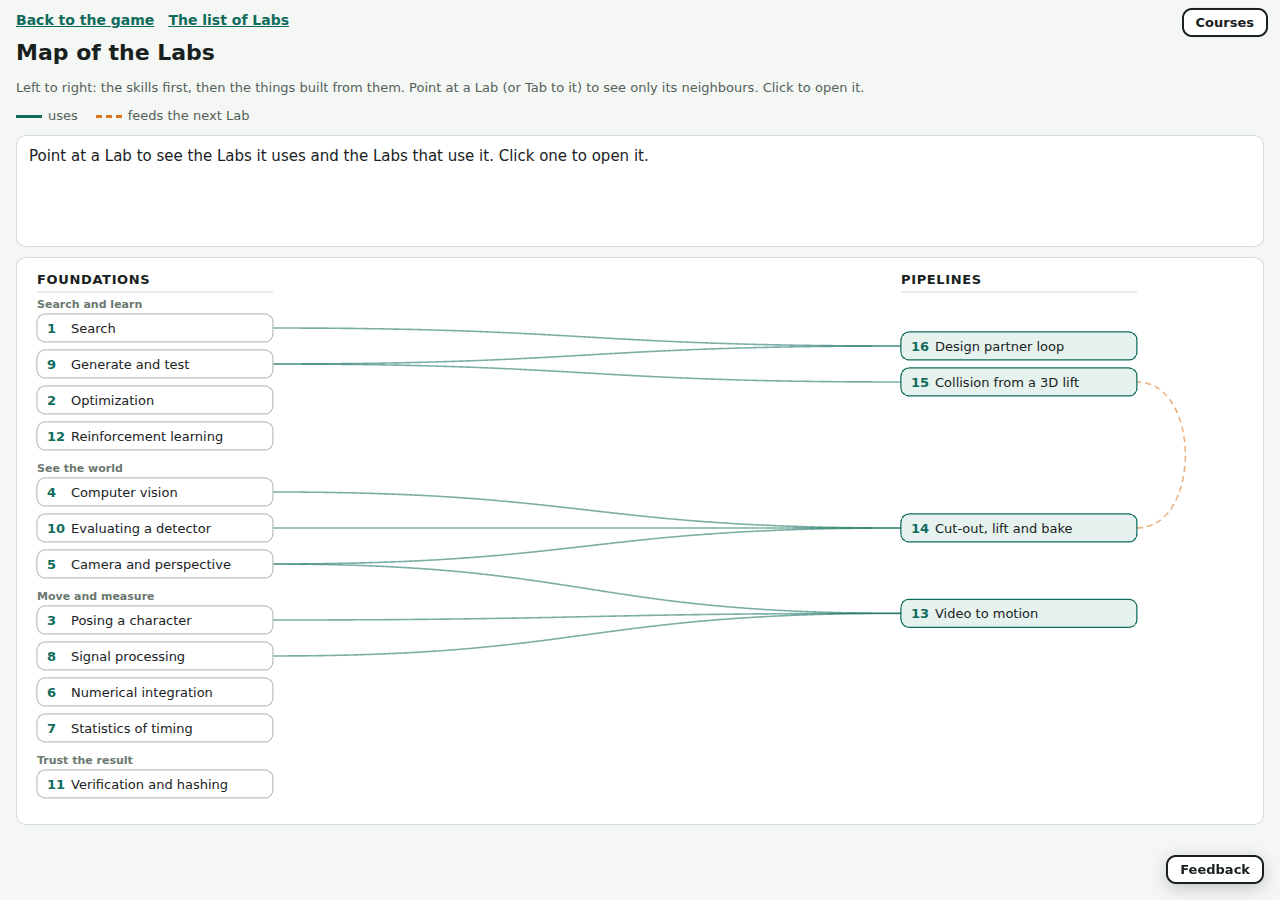
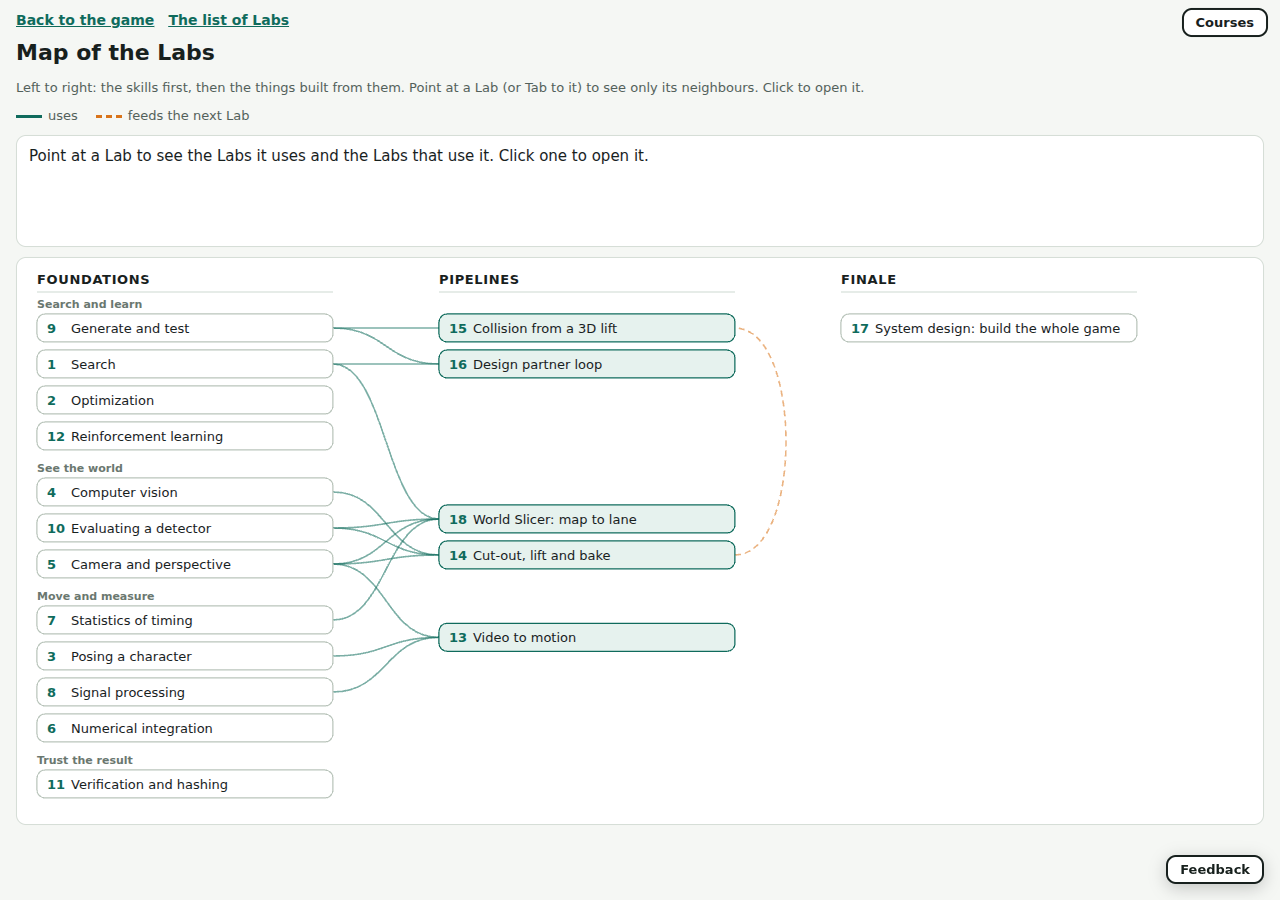
Labs map: wider boxes for long Lab names, three columns with the finale, new evidence screenshots - Part of CC-133

diff --git a/tests/labs-map.test.ts b/tests/labs-map.test.ts
@@ -1,9 +1,9 @@
 import { describe, expect, it } from 'vitest';
 import { DEFAULT_SOURCE, edgePath, focusState, layoutLabsMap, mapEdges, neighboursOf, type MapSource } from '../src/ui/labs-map-layout';
-import { LAB_LIST, flowOf, usedIn, usesOf } from '../src/ui/labs-series';
+import { LAB_LIST, TIERS, flowOf, usedIn, usesOf } from '../src/ui/labs-series';
 
 // CC-133: the dependency tree of the Labs. The layout is a pure function of the series data, so these tests need no page.
-const map = layoutLabsMap(DEFAULT_SOURCE, { groupGap: 20, width: 1100, top: 46 });
+const map = layoutLabsMap(DEFAULT_SOURCE, { groupGap: 20, width: 1100, top: 46, nodeW: 296 });
 
 // a made-up 25-Lab series with a finale tier: the layout must not care about names, numbers or tiers
 const fake = (n: number): MapSource => {
@@ -42,7 +42,7 @@ describe('labs map layout', () => {
   });
   it('puts tiers left to right in the order the series lists them', () => {
     const real = new Map(map.columns.map((c, i) => [c.id, i]));
-    expect(map.columns.map((c) => c.id)).toEqual(['foundations', 'pipelines']);
+    expect(map.columns.map((c) => c.id)).toEqual(TIERS.map((t) => t.id).filter((t) => map.nodes.some((n) => n.tier === t)));
     for (const n of map.nodes) expect(n.column).toBe(real.get(n.tier));
     const x = layoutLabsMap(fake(25));
     expect(x.columns.map((c) => c.id)).toEqual(['foundations', 'pipelines', 'finale']);
@@ -73,7 +73,7 @@ describe('labs map layout', () => {
     expect(focusState(map, 'not-a-lab').dimNode('lab-search')).toBe(false);
   });
   it('is the same on every call and picks up a new Lab by itself', () => {
-    expect(layoutLabsMap(DEFAULT_SOURCE, { groupGap: 20, width: 1100, top: 46 })).toEqual(map);
+    expect(layoutLabsMap(DEFAULT_SOURCE, { groupGap: 20, width: 1100, top: 46, nodeW: 296 })).toEqual(map);
     const src = fake(25), big = layoutLabsMap(src);
     expect(big.nodes).toHaveLength(25);
     expect(mapEdges(src).length).toBeGreaterThanOrEqual(30);

diff --git a/src/modes/labs-map.ts b/src/modes/labs-map.ts
@@ -8,7 +8,7 @@ import { DEFAULT_SOURCE, edgePath, focusState, layoutLabsMap, neighboursOf, type
 const INK = '#17201d', TEAL = '#0f6b5c', ORANGE = '#d9741a', PALE = '#cdd8d1';
 const SVGNS = 'http://www.w3.org/2000/svg';
 const href = (mode: string): string => `?mode=${mode}&labs=1&welcome=0`;
-const short = (s: string, max = 30): string => (s.length > max ? `${s.slice(0, max - 1)}…` : s);
+const short = (s: string, max = 38): string => (s.length > max ? `${s.slice(0, max - 1)}…` : s);
 
 function svgEl<K extends keyof SVGElementTagNameMap>(tag: K, attrs: Record<string, string | number> = {}): SVGElementTagNameMap[K] {
   const e = document.createElementNS(SVGNS, tag);
@@ -17,7 +17,7 @@ function svgEl<K extends keyof SVGElementTagNameMap>(tag: K, attrs: Record<strin
 }
 
 /** Draw the map into a host element; returns a way to set the focus from code (the tests and the check script use it). */
-export function drawLabsMap(host: HTMLElement, map: LabsMap = layoutLabsMap(DEFAULT_SOURCE, { groupGap: 20, width: 1100, top: 46 })): { focus(mode: string | null): void } {
+export function drawLabsMap(host: HTMLElement, map: LabsMap = layoutLabsMap(DEFAULT_SOURCE, { groupGap: 20, width: 1100, top: 46, nodeW: 296 })): { focus(mode: string | null): void } {
   const pad = 8, padR = 72, svg = svgEl('svg', { viewBox: `${-pad} 0 ${map.width + pad + padR} ${map.height}`, width: map.width + pad + padR, height: map.height, role: 'group', 'aria-label': 'Map of how the Labs depend on each other' });
   svg.id = 'lmap-svg';
   for (const c of map.columns) {
